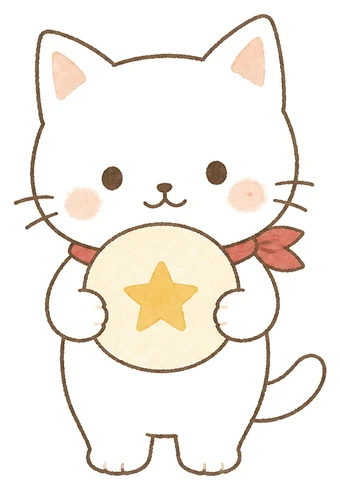
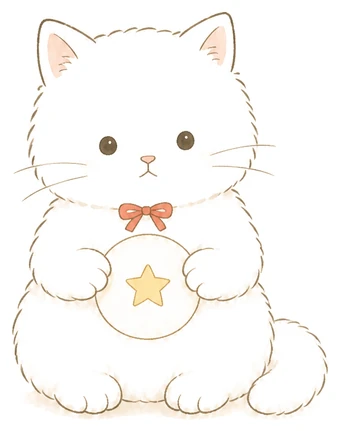
destiny-number: 2차 검수 반영 — 영문 라벨 축소, 카드 종류 구분, 본문 크기 상향, 고양이 그림체 통일

diff --git a/destiny-number/styles.css b/destiny-number/styles.css
@@ -55,8 +55,9 @@ img{max-width:100%}
 /* ---------- 공통 카드 ---------- */
 .card{
   background:var(--paper); border:1px solid var(--line); border-radius:var(--radius);
-  padding:20px; margin-bottom:14px; box-shadow:0 3px 12px rgba(85,72,63,.038);
+  padding:20px; margin-bottom:14px;
 }
+.card.panel{background:var(--paper2);border-color:transparent}
 .card.flush{padding:0;overflow:hidden}
 
 .eyebrow{
@@ -140,7 +141,7 @@ select:invalid{color:var(--mute);font-weight:500}
 .out-date{font-size:11px;letter-spacing:.06em;color:var(--mute)}
 
 /* ---------- 결과 카드 ---------- */
-.result-hero{position:relative;padding:22px 20px 20px}
+.result-hero{position:relative;padding:22px 20px 20px;box-shadow:0 6px 20px rgba(85,72,63,.055)}
 .num-row{display:flex;align-items:flex-start;gap:10px;margin-top:10px}
 .num-big{
   font-family:var(--serif);font-weight:400;font-size:clamp(66px,19vw,84px);line-height:.94;
@@ -156,7 +157,7 @@ select:invalid{color:var(--mute);font-weight:500}
 .stamp span{display:block;font-family:var(--serif);font-size:16px;letter-spacing:0;margin-top:3px}
 .num-label{margin-top:16px}
 .nick{font-family:var(--serif);font-weight:400;font-size:23px;line-height:1.4;letter-spacing:-.03em;margin:6px 0 8px}
-.num-tag{font-size:14px;line-height:1.78;color:var(--ink2)}
+.num-tag{font-size:14.5px;line-height:1.8;color:var(--ink2)}
 .chips{display:flex;flex-wrap:wrap;gap:6px;margin-top:14px}
 .chip{
   display:inline-flex;align-items:center;padding:5px 10px;border-radius:999px;border:1px solid var(--line);
@@ -165,7 +166,8 @@ select:invalid{color:var(--mute);font-weight:500}
 .chip.on{background:var(--sky-soft);border-color:#C9DEEB;color:var(--sky-deep)}
 
 /* ---------- 스탯 ---------- */
-.stat-head{display:flex;align-items:center;justify-content:space-between;gap:8px;margin-bottom:12px}
+.stat-head{display:flex;align-items:baseline;justify-content:space-between;gap:8px;margin-bottom:12px}
+.stat-title{font-family:var(--serif);font-size:15px;letter-spacing:-.02em;color:var(--ink)}
 .stat-row{display:grid;grid-template-columns:56px 1fr auto;align-items:center;gap:10px;padding:7px 0}
 .stat-row + .stat-row{border-top:1px solid var(--line)}
 .stat-name{font-size:12px;font-weight:600;color:var(--ink2);letter-spacing:-.01em}
@@ -174,17 +176,18 @@ select:invalid{color:var(--mute);font-weight:500}
 .stat-val{font-size:11px;color:var(--mute);letter-spacing:.02em;font-variant-numeric:tabular-nums}
 
 /* ---------- 계산 과정 ---------- */
-.calc{padding:0}
+.calc{padding:0;background:transparent;border:0;border-top:1px solid var(--line);border-bottom:1px solid var(--line);border-radius:0;margin-bottom:14px}
+.calc summary{padding:15px 2px}
 .calc summary{
-  padding:15px 20px;font-size:11px;font-weight:650;letter-spacing:.14em;text-transform:uppercase;color:var(--ink2);
+  font-size:11px;font-weight:650;letter-spacing:.14em;text-transform:uppercase;color:var(--ink2);
   cursor:pointer;list-style:none;display:flex;justify-content:space-between;align-items:center;
 }
 .calc summary::-webkit-details-marker{display:none}
 .calc summary::after{content:"＋";font-size:14px;color:var(--mute)}
 .calc[open] summary::after{content:"－"}
 .calc[open] summary{border-bottom:1px solid var(--line)}
-.calc-body{padding:14px 20px 18px}
-.calc-line{display:flex;flex-wrap:wrap;align-items:center;gap:6px;margin:0 0 7px;font-size:13px;line-height:1.7;color:var(--ink2)}
+.calc-body{padding:2px 2px 18px}
+.calc-line{display:flex;flex-wrap:wrap;align-items:center;gap:6px;margin:0 0 8px;font-size:13.5px;line-height:1.75;color:var(--ink2)}
 .calc-k{
   font-size:10px;font-weight:700;color:var(--ink2);background:var(--paper2);border-radius:6px;padding:2px 7px;letter-spacing:.04em;
 }
@@ -192,8 +195,10 @@ select:invalid{color:var(--mute);font-weight:500}
 .calc-note{font-size:11.5px;line-height:1.75;color:var(--mute);margin-top:12px;padding-top:12px;border-top:1px dashed var(--line2)}
 
 /* ---------- 섹션 ---------- */
-.sec-head{margin:9px 0 14px}
-.sec-title{font-family:var(--serif);font-weight:400;font-size:20px;line-height:1.45;letter-spacing:-.03em;margin-top:8px}
+.sec-head{margin:6px 0 14px}
+.sec-no{display:inline-flex;align-items:center;gap:7px;font-size:10px;font-weight:700;letter-spacing:.2em;color:var(--sky-deep)}
+.sec-no::after{content:"";width:16px;height:1px;background:var(--line2)}
+.sec-title{font-family:var(--serif);font-weight:400;font-size:20px;line-height:1.45;letter-spacing:-.03em;margin-top:9px}
 .sub-label{
   display:inline-flex;align-items:center;gap:6px;font-size:10.5px;font-weight:650;letter-spacing:.12em;
   color:var(--mute);text-transform:uppercase;margin-bottom:9px;
@@ -202,7 +207,7 @@ select:invalid{color:var(--mute);font-weight:500}
 .sub-label.sky i{background:var(--sky-deep)}
 .sub-label.mute i{background:var(--line2)}
 ul.list{list-style:none;padding:0;margin:0}
-ul.list li{position:relative;padding:0 0 0 14px;margin:0 0 10px;font-size:13.5px;line-height:1.8;color:var(--ink)}
+ul.list li{position:relative;padding:0 0 0 14px;margin:0 0 11px;font-size:14px;line-height:1.82;color:var(--ink)}
 ul.list li:last-child{margin-bottom:0}
 ul.list li::before{content:"";position:absolute;left:2px;top:10px;width:5px;height:5px;border-radius:50%;background:var(--cherry);opacity:.7}
 ul.list.sky li::before{background:var(--sky-deep);opacity:.8}
@@ -216,14 +221,14 @@ ul.list.sky li::before{background:var(--sky-deep);opacity:.8}
 }
 .py-meta .k{font-size:9.5px;font-weight:650;letter-spacing:.18em;text-transform:uppercase;color:var(--mute)}
 .py-meta .t{font-family:var(--serif);font-size:18px;line-height:1.45;letter-spacing:-.03em;margin-top:4px}
-.py-theme{font-size:13.5px;line-height:1.8;color:var(--ink2);margin:0 0 14px}
+.py-theme{font-size:14px;line-height:1.82;color:var(--ink2);margin:0 0 14px}
 .half{display:grid;gap:8px}
 .half-card{background:var(--paper2);border-radius:var(--radius-sm);padding:13px 14px}
 .half-top{display:flex;align-items:center;gap:7px;margin-bottom:6px;flex-wrap:wrap}
 .half-when{font-size:10px;font-weight:650;letter-spacing:.1em;text-transform:uppercase;color:var(--mute)}
 .half-kw{font-size:11px;font-weight:650;color:var(--sky-deep);background:#fff;border-radius:999px;padding:2px 9px;border:1px solid var(--line)}
-.half-card p{font-size:13px;line-height:1.78;color:var(--ink)}
-.py-tip{display:flex;gap:8px;margin-top:14px;font-size:13px;line-height:1.78;color:var(--ink2)}
+.half-card p{font-size:13.5px;line-height:1.8;color:var(--ink)}
+.py-tip{display:flex;gap:8px;margin-top:14px;font-size:13.5px;line-height:1.8;color:var(--ink2)}
 .py-tip b{
   flex:none;font-size:9.5px;font-weight:700;letter-spacing:.14em;color:var(--cherry);
   margin-top:5px;align-self:flex-start;border:0;padding:0;
@@ -235,7 +240,7 @@ ul.list.sky li::before{background:var(--sky-deep);opacity:.8}
 .tr3-ic{width:18px;height:18px;color:var(--sky-deep);margin-top:4px}
 .tr3-ic svg{width:100%;height:100%}
 .tr3-item h3{font-family:var(--serif);font-weight:400;font-size:14px;line-height:1.4;margin:0 0 3px;letter-spacing:-.01em}
-.tr3-item p{font-size:13px;line-height:1.8;color:var(--ink2)}
+.tr3-item p{font-size:13.5px;line-height:1.82;color:var(--ink2)}
 .match-row{display:flex;align-items:center;gap:6px;flex-wrap:wrap}
 .numdot{
   width:28px;height:28px;border-radius:50%;display:grid;place-items:center;font-family:var(--serif);font-size:13px;
@@ -252,7 +257,7 @@ ul.list.sky li::before{background:var(--sky-deep);opacity:.8}
 .tarot-meta .k{display:flex;align-items:center;gap:6px;font-size:10px;font-weight:650;letter-spacing:.18em;text-transform:uppercase;color:var(--mute)}
 .tarot-meta .n{font-family:var(--serif);font-size:20px;line-height:1.35;margin:5px 0 2px;letter-spacing:-.03em}
 .tarot-meta .e{font-size:9.5px;font-weight:600;letter-spacing:.16em;color:var(--mute);text-transform:uppercase;margin-bottom:8px}
-.tarot-meta p{font-size:13px;line-height:1.78;color:var(--ink2)}
+.tarot-meta p{font-size:13.5px;line-height:1.8;color:var(--ink2)}
 
 /* ---------- 하단 동작 ---------- */
 .actions{

diff --git a/destiny-number/index.html b/destiny-number/index.html
@@ -29,7 +29,7 @@
 <link rel="preconnect" href="https://fonts.googleapis.com">
 <link rel="preconnect" href="https://fonts.gstatic.com" crossorigin>
 <link rel="stylesheet" href="https://fonts.googleapis.com/css2?family=Gowun+Dodum&family=Caveat:wght@500;600&display=swap">
-<link rel="stylesheet" href="styles.css?v=20261118v">
+<link rel="stylesheet" href="styles.css?v=20261118w">
 </head>
 <body>
 
@@ -128,9 +128,9 @@
         </article>
 
         <!-- 스탯 -->
-        <article class="card">
+        <article class="card panel">
           <div class="stat-head">
-            <p class="eyebrow">My Stats</p>
+            <p class="stat-title">내 스탯</p>
             <span class="stat-val">5점 만점</span>
           </div>
           <div id="stat-rows"></div>
@@ -147,7 +147,7 @@
         <!-- 01 기질 -->
         <section class="card">
           <div class="sec-head">
-            <p class="eyebrow">01 · Profile</p>
+            <span class="sec-no">01</span>
             <h2 class="sec-title" id="sec1-title">타고난 기질과 숨은 강점</h2>
           </div>
           <span class="sub-label"><i></i>이런 게 강해요</span>
@@ -160,13 +160,13 @@
         <!-- 02 2027 -->
         <section class="card">
           <div class="sec-head">
-            <p class="eyebrow">02 · Personal Year</p>
+            <span class="sec-no">02</span>
             <h2 class="sec-title">2027년, 내 해는</h2>
           </div>
           <div class="py-head">
             <span class="py-num" id="py-num">6</span>
             <div class="py-meta">
-              <span class="k">Personal Year</span>
+              <span class="k">2027년 개인년수</span>
               <p class="t" id="py-title">울타리를 손보는 해</p>
             </div>
           </div>
@@ -193,7 +193,7 @@
         <!-- 03 일·돈·관계 -->
         <section class="card">
           <div class="sec-head">
-            <p class="eyebrow">03 · Life</p>
+            <span class="sec-no">03</span>
             <h2 class="sec-title">일하고, 벌고, 만나는 일</h2>
           </div>
           <div class="tr3">
@@ -220,9 +220,9 @@
         </section>
 
         <!-- 04 타로 -->
-        <section class="card">
+        <section class="card panel">
           <div class="sec-head">
-            <p class="eyebrow">04 · Birth Tarot</p>
+            <span class="sec-no">04</span>
             <h2 class="sec-title">태어날 때 뽑힌 카드 한 장</h2>
           </div>
           <div class="tarot">
